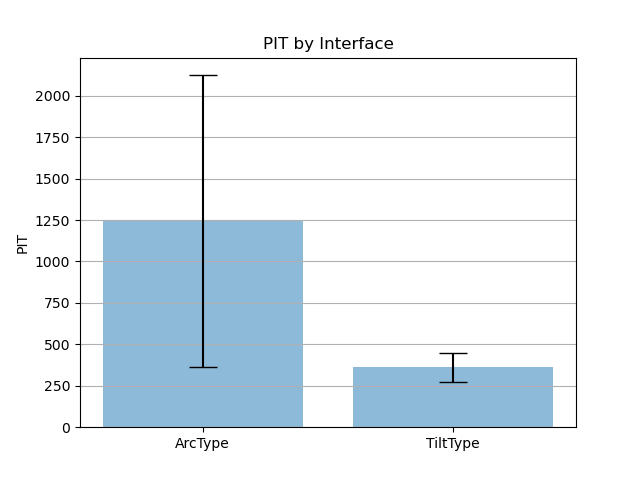
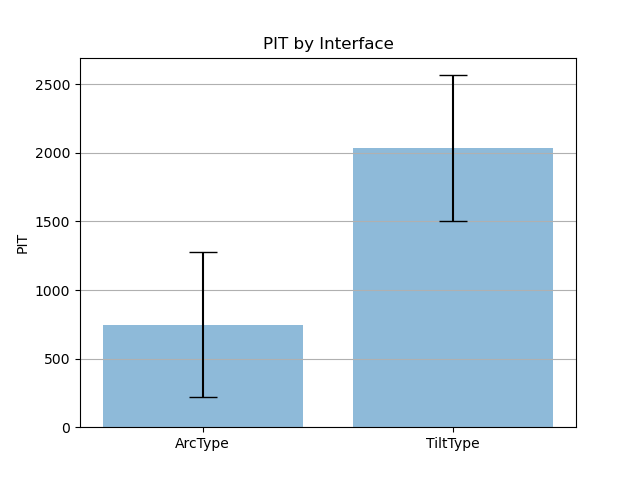
Fixed PIT values, made csv

diff --git a/Assets/Scripts/Utils/metrics.py b/Assets/Scripts/Utils/metrics.py
@@ -1,3 +1,4 @@
+import csv
 import time
 from collections import defaultdict
 from enum import Enum
@@ -15,7 +16,8 @@ class Layouts(Enum):
     Raycast = "Raycast"
 
 
-trial_files = {0: "trial-2020-07-16_02-36-27.yaml", 1: "trial-2020-07-16_02-46-22.yaml", 2: "trial-2020-07-16_03-13-40.yaml", 3: "trial-2020-07-16_03-36-35.yaml"}
+trial_files = {0: "trial-2020-07-16_02-36-27.yaml", 1: "trial-2020-07-16_02-46-22.yaml",
+               2: "trial-2020-07-16_03-13-40.yaml", 3: "trial-2020-07-16_03-36-35.yaml"}
 
 
 def get_all_trials():
@@ -70,9 +72,9 @@ def merge_trials(*datas):
     return {"meta": "lost in merge", "trial": out}
 
 
-arctype_x_range_size = 60
-tilttype_x_range_size = 175 + 160
-tilttype_z_range_size = 168 + 175
+arctype_x_range_size = 145 - 45
+tilttype_x_range_size = 12 - 5
+tilttype_z_range_size = 120 - 30
 
 
 def get_tilttype_pos(c: str):
@@ -176,18 +178,44 @@ def make_point_cloud():
 
         ax.set_autoscalex_on(False)
         ax.set_xlim([-4, 4])
-        # ax.set_autoscaley_on(False)
-        # ax.set_autoscalez_on(False)
-        # ax.set_zlim([-1.5, 1])
 
         ax.set_xlabel('X (feet)')
         ax.set_ylabel('Y (feet)')
         ax.set_zlabel('Z (feet)')
 
-    plt.legend([e.value for e in Layouts])
-    t_str = str(time.time())
+    plt.legend([e.value for e in Layouts], loc='center left')
+    plt.title('Stylus Positions in Cave on Keypress by Interface')
     plt.savefig("../../Results/Figures/trnsprnt-pos-cloud.png", transparent=True)
     plt.savefig("../../Results/Figures/pos-cloud.png")
+    plt.show()
+
+
+def make_2d_point_cloud():
+    merged = merge_trials(*get_all_trials().values())
+    fig = plt.figure()
+    ax = fig.add_subplot(111)
+
+    for layout, marker in zip((e.value for e in Layouts), ['o', '^', '.', 's']):
+        posses = extract_layout_positions(merged, layout)
+        if not posses:
+            continue
+
+        xs = [v[0] for v in posses]
+        ys = [v[2] for v in posses]
+
+        ax.scatter(xs, ys, marker=marker)
+        ax.plot([np.mean(xs)], [np.mean(ys)], marker='x')
+
+        ax.set_autoscalex_on(False)
+        ax.set_xlim([-1, 1])
+
+        ax.set_xlabel('X (feet)')
+        ax.set_ylabel('Z (feet)')
+
+    plt.legend([e.value for e in Layouts], loc='center left')
+    plt.title('Stylus Positions in Cave on Keypress by Interface')
+    plt.savefig("../../Results/Figures/trnsprnt-pos-2d-cloud.png", transparent=True)
+    plt.savefig("../../Results/Figures/pos-2d-cloud.png")
     plt.show()
 
 
@@ -202,30 +230,33 @@ def make_wpm_bars():
             layout_wpm[challenge["layout"]].append(words_per_minute(challenge))
             layout_awpm[challenge["layout"]].append(accurate_words_per_minutes(challenge))
 
-    for title, data in [("WPM", layout_wpm), ("aWPM", layout_awpm)]:
-        data = {k: reject_outliers(np.array(v)) for k, v in data.items()}
-        layouts = data.keys()
-        means = list(map(np.mean, data.values()))
-        stds = list(map(np.std, data.values()))
-        x_pos = np.arange(len(layouts))
+    awpm_data = [reject_outliers(np.array(v)) for v in layout_awpm.values()]
+    awpm_means = [np.mean(v) for v in awpm_data]
+    wpm_data = [reject_outliers(np.array(v)) for v in layout_wpm.values()]
+    wpm_means = [np.mean(v) for v in wpm_data]
+    awpm_std = [np.std(v) for v in awpm_data]
+    print('awpm std', awpm_std[-1])
+    awpm_std[-1] = 0  # overlaps with other error bar
+    wpm_std = [np.std(v) for v in wpm_data]
+    ind = np.arange(4)  # the x locations for the groups
+    width = 0.35  # the width of the bars: can also be len(x) sequence
 
-        # https://pythonforundergradengineers.com/python-matplotlib-error-bars.html
-        fig, ax = plt.subplots()
-        ax.bar(x_pos, means, yerr=stds, align='center', alpha=0.5, ecolor='black', capsize=10)
-        ax.set_ylabel(title)
-        ax.set_xticks(x_pos)
-        ax.set_xticklabels(layouts)
-        ax.set_title(title + ' by Layout')
-        ax.yaxis.grid(True)
+    p1 = plt.bar(ind, awpm_means, width, yerr=awpm_std, align='center')
+    p2 = plt.bar(ind, wpm_means, width, align='center',
+                 bottom=awpm_means, yerr=wpm_std)
 
-        plt.tight_layout()
-        plt.savefig('../../Results/Figures/' + title.lower() + '-error-bars.png')
-        plt.show()
+    plt.axes().yaxis.grid(True)  # raises an exception?
+
+    plt.ylabel('(Accurate) Words per Minute')
+    plt.title('Efficiency')
+    plt.xticks(ind, layout_awpm.keys())
+    plt.legend((p1[0], p2[0]), ('aWPM', 'WPM'))
+
+    plt.savefig('../../Results/Figures/stacked-wpm-awpm.png')
+    plt.show()
 
 
 def make_pit_bars():
-
-
     layout_pit = defaultdict(list)
     for trial in get_all_trials().values():
         for challenge in trial["trial"]:
@@ -238,13 +269,18 @@ def make_pit_bars():
             if layout == Layouts.ArcType.value:
                 layout_pit[layout].append((challenge_rot_travel(challenge), arctype_ideal(challenge['prompt'])))
             elif layout == Layouts.TiltType.value:
-                layout_pit[layout].append((challenge_rot_travel(challenge), tilttype_ideal(challenge['prompt']), tilttype_ideal_tuple(challenge['prompt'])))
+                layout_pit[layout].append((challenge_rot_travel(challenge), tilttype_ideal(challenge['prompt']),
+                                           tilttype_ideal_tuple(challenge['prompt'])))
 
     # https://matplotlib.org/3.1.1/gallery/lines_bars_and_markers/bar_stacked.html
-    idealMeans = [np.mean(reject_outliers(np.array([t[1] for t in layout_pit[v]]))) for v in [Layouts.ArcType.value, Layouts.TiltType.value]]
-    actualMeans = [np.mean(reject_outliers(np.array([t[0] for t in layout_pit[v]]))) for v in [Layouts.ArcType.value, Layouts.TiltType.value]]
-    idealStd = [np.std(reject_outliers(np.array([t[1] for t in layout_pit[v]]))) for v in [Layouts.ArcType.value, Layouts.TiltType.value]]
-    actualStd = [np.std(reject_outliers(np.array([t[0] for t in layout_pit[v]]))) for v in [Layouts.ArcType.value, Layouts.TiltType.value]]
+    idealMeans = [np.mean(reject_outliers(np.array([t[1] for t in layout_pit[v]]))) for v in
+                  [Layouts.ArcType.value, Layouts.TiltType.value]]
+    actualMeans = [np.mean(reject_outliers(np.array([t[0] for t in layout_pit[v]]))) for v in
+                   [Layouts.ArcType.value, Layouts.TiltType.value]]
+    idealStd = [np.std(reject_outliers(np.array([t[1] for t in layout_pit[v]]))) for v in
+                [Layouts.ArcType.value, Layouts.TiltType.value]]
+    actualStd = [np.std(reject_outliers(np.array([t[0] for t in layout_pit[v]]))) for v in
+                 [Layouts.ArcType.value, Layouts.TiltType.value]]
     ind = np.arange(2)  # the x locations for the groups
     width = 0.85  # the width of the bars: can also be len(x) sequence
 
@@ -260,21 +296,87 @@ def make_pit_bars():
     plt.savefig('../../Results/Figures/travel-by-interface-error-bars.png')
     plt.show()
 
-    pitMeans = [np.mean(reject_outliers(np.array([100 * t[0] / t[1] for t in layout_pit[v]]))) for v in [Layouts.ArcType.value, Layouts.TiltType.value]]
-    pitStd = [np.std(reject_outliers(np.array([100 * t[0] / t[1] for t in layout_pit[v]]))) for v in [Layouts.ArcType.value, Layouts.TiltType.value]]
+    pitMeans = [np.mean(reject_outliers(np.array([100 * t[0] / t[1] for t in layout_pit[v]]))) for v in
+                [Layouts.ArcType.value, Layouts.TiltType.value]]
+    pitStd = [np.std(reject_outliers(np.array([100 * t[0] / t[1] for t in layout_pit[v]]))) for v in
+              [Layouts.ArcType.value, Layouts.TiltType.value]]
     # ind = np.arange(2)  # the x locations for the groups
     # width = 0.85  # the width of the bars: can also be len(x) sequence
 
     fig, ax = plt.subplots()
     ax.bar(ind, pitMeans, yerr=pitStd, align='center', alpha=0.5, ecolor='black', capsize=10)
     ax.set_ylabel('PIT')
-    ax.set_xticks(ind)
-    ax.set_xticklabels((Layouts.ArcType.value, Layouts.TiltType.value))
+    plt.xticks(ind, (Layouts.ArcType.value, Layouts.TiltType.value))
     ax.set_title('PIT by Interface')
     ax.yaxis.grid(True)
 
     plt.savefig('../../Results/Figures/pit-by-interface-error-bars.png')
     plt.show()
+
+
+def write_csv():
+    layout_pit, layout_wpm, layout_awpm = defaultdict(list), defaultdict(list), defaultdict(list)
+    for trial in get_all_trials().values():
+        for challenge in trial["trial"]:
+            if "command" in challenge:
+                continue
+            else:
+                challenge = challenge["challenge"]
+
+            layout_wpm[challenge["layout"]].append(words_per_minute(challenge))
+            layout_awpm[challenge["layout"]].append(accurate_words_per_minutes(challenge))
+
+            layout = challenge['layout']
+            if layout == Layouts.ArcType.value:
+                layout_pit[layout].append((challenge_rot_travel(challenge), arctype_ideal(challenge['prompt'])))
+            elif layout == Layouts.TiltType.value:
+                layout_pit[layout].append((challenge_rot_travel(challenge), tilttype_ideal(challenge['prompt']),
+                                           tilttype_ideal_tuple(challenge['prompt'])))
+
+    header = ["Layout", "Avg X", "Std Dev X", "Avg Y", "Std Dev Y", "Avg Z", "Std Dev Z", "Avg WPM", "Std Dev WPM", "Avg aWPM", "Std Dev aWPM", "Avg Travel",
+            "Std Dev Travel", "Avg PIT", "Std Dev PIT"]
+    rows = [header]
+    merged = merge_trials(*get_all_trials().values())
+    for layout in (e.value for e in Layouts):
+        posses = extract_layout_positions(merged, layout)
+        row = [layout]
+        if posses:
+            xs = [v[0] for v in posses]
+            ys = [v[1] for v in posses]
+            zs = [v[2] for v in posses]
+            row.append(np.mean(xs))
+            row.append(np.std(xs))
+            row.append(np.mean(ys))
+            row.append(np.std(ys))
+            row.append(np.mean(zs))
+            row.append(np.std(zs))
+        else:
+            row.extend(('', '', '', '', '', ''))
+
+        wpm_data = reject_outliers(np.array(layout_wpm[layout]))
+        row.append(np.mean(wpm_data))
+        row.append(np.std(wpm_data))
+
+        awpm_data = reject_outliers(np.array(layout_awpm[layout]))
+        row.append(np.mean(awpm_data))
+        row.append(np.std(awpm_data))
+
+        if layout in layout_pit:
+            actual_data = reject_outliers(np.array([t[0] for t in layout_pit[layout]]))
+            row.append(np.mean(actual_data))
+            row.append(np.std(actual_data))
+
+            pit_data = reject_outliers(np.array([100 * t[0] / t[1] for t in layout_pit[layout]]))
+
+            row.append(np.mean(pit_data))
+            row.append(np.std(pit_data))
+        else:
+            row.extend(('', '', '', ''))
+
+        rows.append(row)
+
+    with open('../../Results/extracted_data.csv', 'w', newline='') as csvfile:
+        csv.writer(csvfile).writerows(rows)
 
 
 # arctype, arc x: 60 / 7 per bin
@@ -283,5 +385,6 @@ def make_pit_bars():
 if __name__ == '__main__':
     # make_point_cloud()
     # make_wpm_bars()
-
+    # make_2d_point_cloud()
     make_pit_bars()
+    write_csv()
